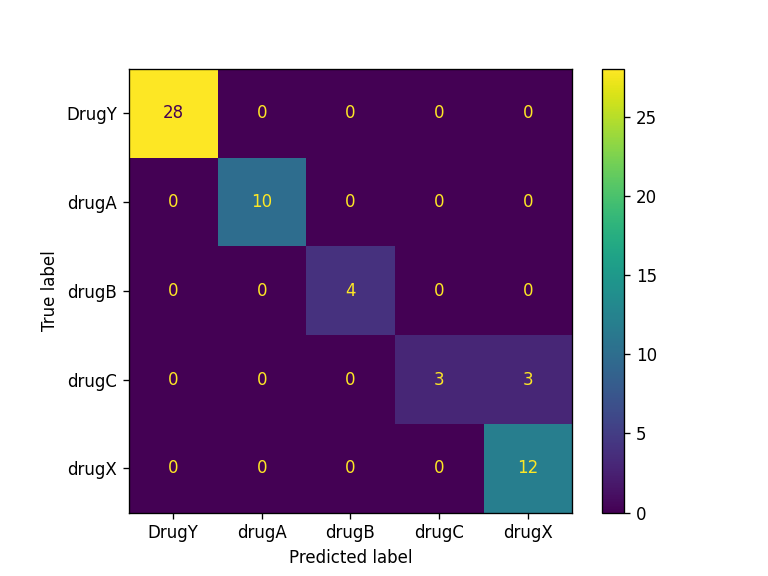
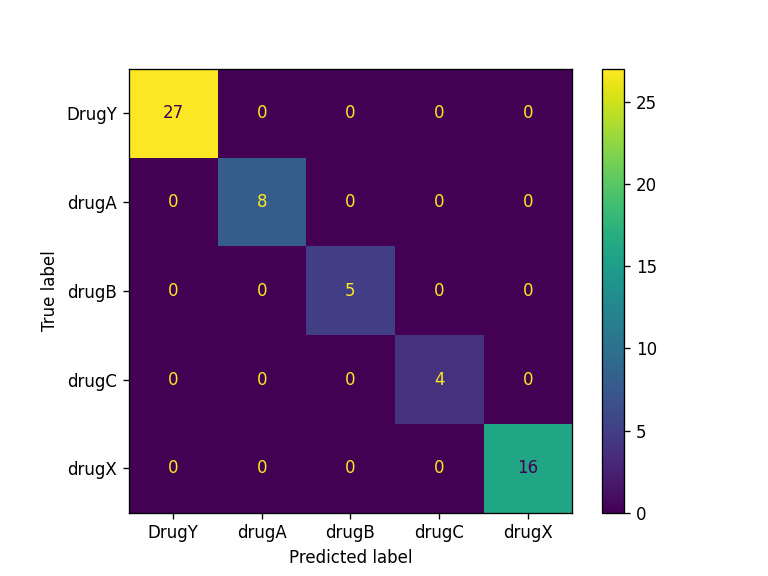
Update CML report and results [CI]

diff --git a/report.md b/report.md
@@ -1,5 +1,5 @@
 ## Model Metrics
 
-Accuracy = 0.95, F1 Score = 0.91.
+Accuracy = 1.00, F1 Score = 1.00.
 ## Confusion Matrix Plot
 ![Confusion Matrix](./Results/model_results.png)
